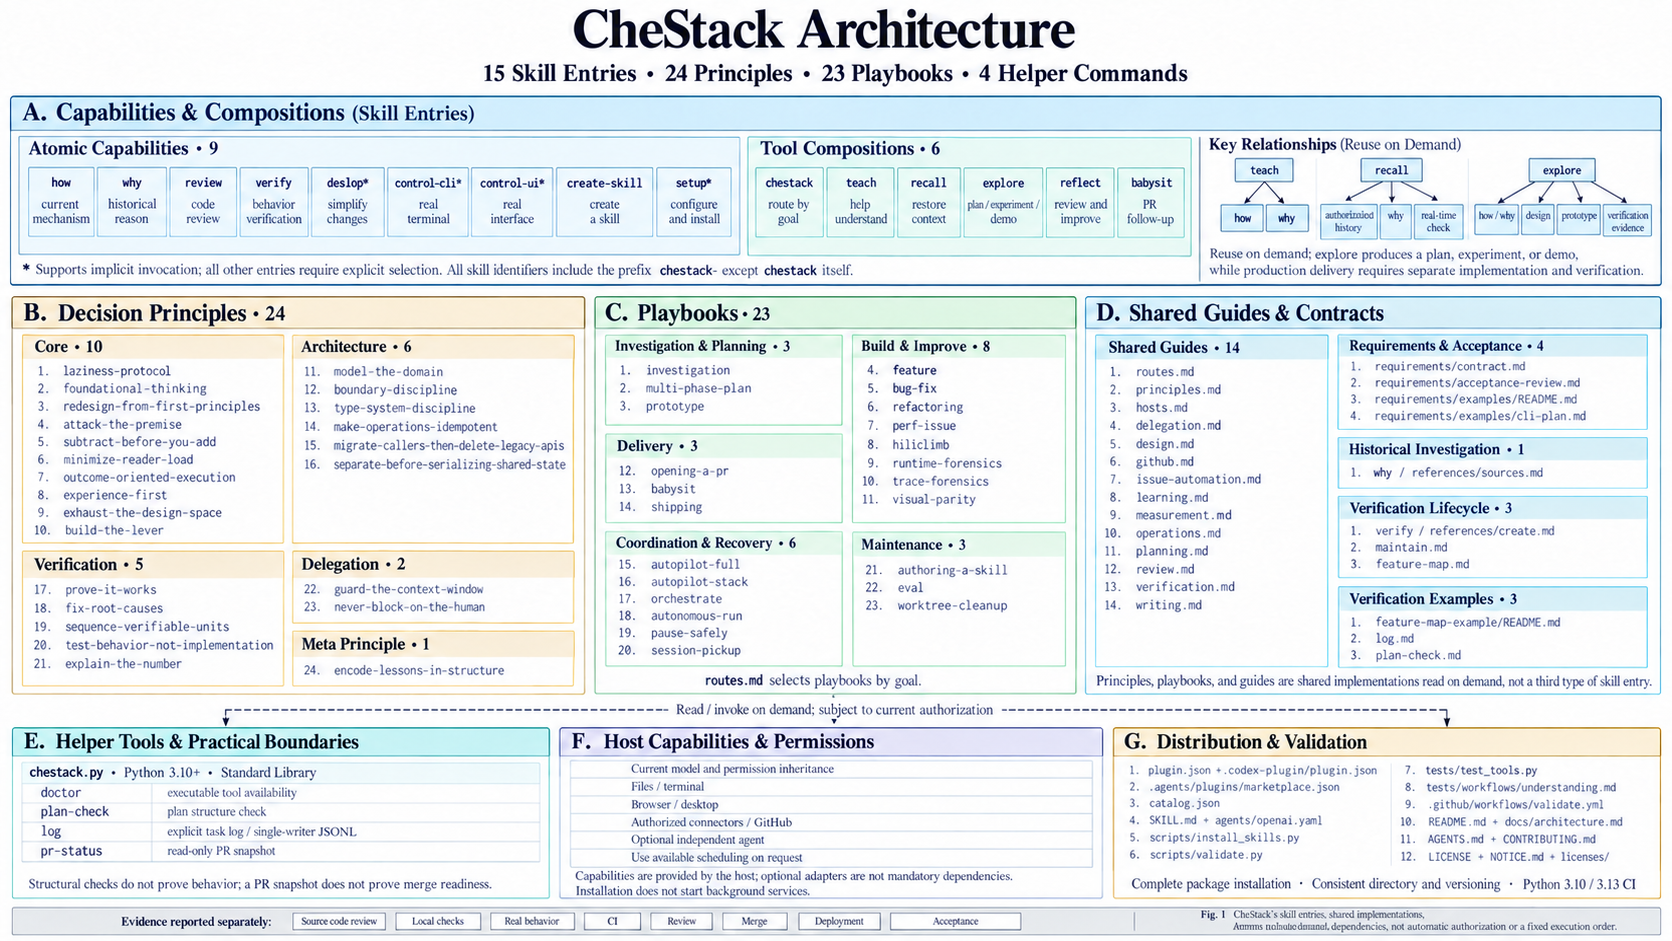
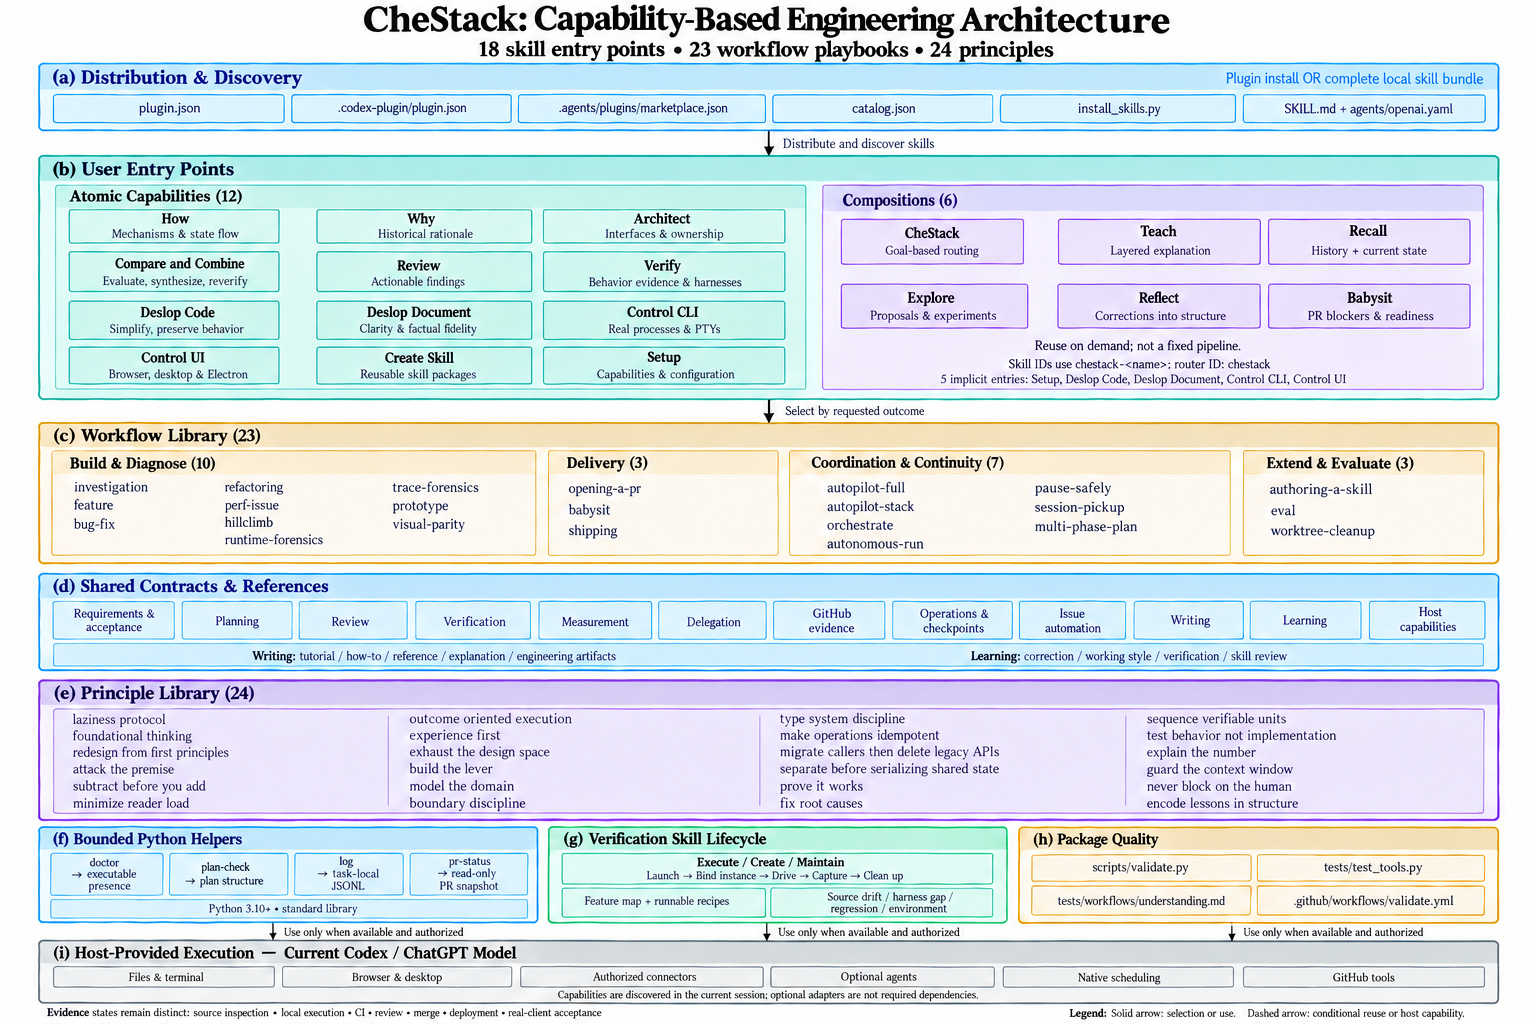
docs: refresh architecture diagram and common usage

diff --git a/README.md b/README.md
@@ -2,7 +2,9 @@
 
 面向 **Codex / ChatGPT** 的原子能力与工具组合。原子能力完成职责明确、可独立检验的工作；工具组合围绕用户目标组织这些能力。CheStack 继承当前会话的模型，通过宿主实际提供的工具工作。
 
-[![CheStack 架构：原子能力与工具组合](docs/images/chestack-architecture.png)](docs/architecture.md)
+[![CheStack 完整架构：18 个技能入口、23 个工作流、24 条原则与宿主能力](docs/images/chestack-architecture.png)](docs/images/chestack-architecture.png)
+
+英文架构图可点击放大，覆盖全部技能入口、工作流、原则、共享契约、验证生命周期和辅助工具。模块职责与组合关系见[架构说明](docs/architecture.md)。
 
 ## 安装
 
@@ -23,22 +25,41 @@ python3 scripts/install_skills.py --dest /absolute/path/to/project/.agents/skill
 
 个人安装可以使用 `~/.agents/skills`。安装器遇到同名目录会停止整次安装并保留原有文件；它不会清理或覆盖已有安装。插件安装和本地复制选择一种，避免重复入口。
 
-## 使用
+## 常用使用方式
 
-用 `$chestack` 根据目标选择能力或工作流，也可以直接选择专用入口：
+安装后，在目标项目的会话里输入提示词。用 `$chestack` 描述目标即可按任务路由；已知道要做什么时，可以直接选择专用技能。把示例中的模块、分支、错误和目标替换成实际对象，并附上相关文件或链接。
+
+| 场景 | 可直接复制的提示词 | 主要产出 |
+|---|---|---|
+| 开发功能 | `$chestack 为任务列表增加状态筛选，保留现有排序；实现后验证筛选、清空和空结果。` | 实现、验收证据与未覆盖范围 |
+| 修复问题 | `$chestack 修复保存后重新打开内容丢失的问题，先复现和定位根因，再验证修复与回归。` | 复现条件、根因、修复及回归结果 |
+| 梳理代码 | `$chestack-how 追踪这个请求从入口到持久化的过程，解释状态归属和失败路径。` | 机制说明与源码依据 |
+| 设计方案 | `$chestack-architect 为批量导出设计调用接口、任务状态和取消机制，给出可实施的设计包。` | 调用示例、接口、所有权、取舍与验收条件 |
+| 探索方向 | `$chestack-explore 比较这两个方向，必要时做最小 demo，先不要做生产实现。` | 有依据的方案、实验或 demo，以及生产验证缺口 |
+| 审查改动 | `$chestack-review 审查当前分支相对 main 的改动，重点检查状态一致性、失败恢复和测试缺口。` | 有位置、影响和验证方法的发现 |
+| 验收功能 | `$chestack-verify 验证这次改动的成功、失败和恢复路径，区分实际执行与尚未验证的部分。` | 真实行为证据与覆盖边界 |
+| 操作界面 | `$chestack-control-ui 在当前应用验证新建、保存和重新打开流程，保留对应状态的截图。` | 目标实例、交互结果与视觉证据 |
+| 操作终端 | `$chestack-control-cli 验证这个交互式命令的选择、取消、重试和退出行为。` | 真实进程或 PTY 的交互、输出与退出证据 |
+| 清理代码 | `$chestack-deslop-code 清理当前改动中多余的抽象和防御逻辑，保持对外行为并验证。` | 精简后的代码与行为保持证据 |
+| 改进文档 | `$chestack-deslop-document 改写这份文档，明确使用步骤和限制，保留事实与不确定性。` | 清晰、可核对的文档 |
+| 恢复上下文 | `$chestack-recall 回顾最近一周这项工作的决定，核对当前状态和下一步。` | 授权历史、实时状态与待办摘要 |
+| 检查 PR | `$chestack-babysit check：检查这个 PR 的评审、CI 和未解决阻塞，报告当前 head 的状态。` | 当前快照、阻塞与就绪状态；不会自动合并 |
+
+需要多步工作时，可以在同一条请求中明确范围与验收目标：
 
 ```text
-$chestack-how 追踪这个请求从入口到持久化的过程，解释失败时发生什么。
-$chestack-architect 先设计调用接口和状态归属，给出可实施的设计包。
+$chestack 重构这个模块，保持公开接口和现有行为；先梳理调用方，再分步修改、审查并验证。
+$chestack 排查列表首屏变慢的问题；建立可复现基线，定位瓶颈，用相同条件比较修改前后。
+$chestack 继续这项未完成的任务，先核对当前分支、已有产物和检查结果，再完成剩余工作。
+$chestack-verify 为这个项目创建可复用的验证技能和 feature map，覆盖启动、交互、取证与清理。
 $chestack-compare-and-combine 比较这几个候选，综合有价值的部分并验证最终方案。
 $chestack-why 当时为什么选这个设计？区分历史记录和你的推断。
 $chestack-teach 我准备修改这个模块，帮我理解它的机制和取舍。
-$chestack-recall 回顾最近一周这项工作的决定，核对当前状态和下一步。
-$chestack-explore 比较这两个方向，必要时做最小 demo，先不要做生产实现。
-$chestack 验证这个改动的实际行为，并给出证据。
 ```
 
 Codex 使用 `$skill-name`，支持插件和技能的 ChatGPT 环境使用宿主的选择入口。独立选择技能不要求先经过主入口。
+
+## 全部技能入口
 
 | 类型 | 入口 | 产出 |
 |---|---|---|
